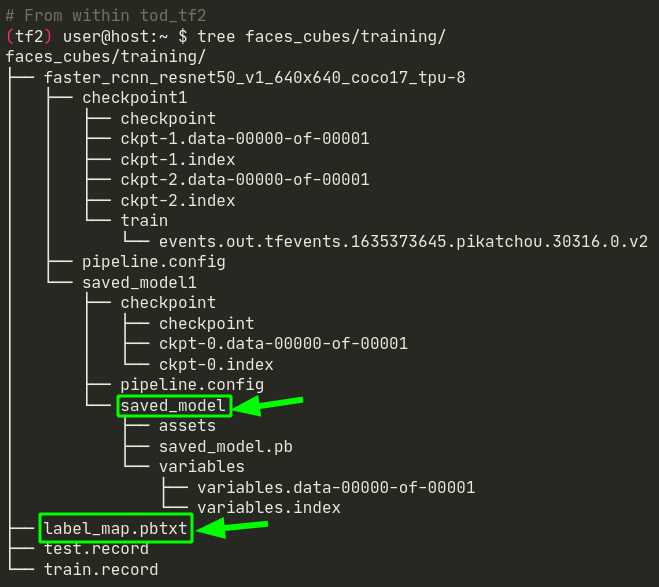
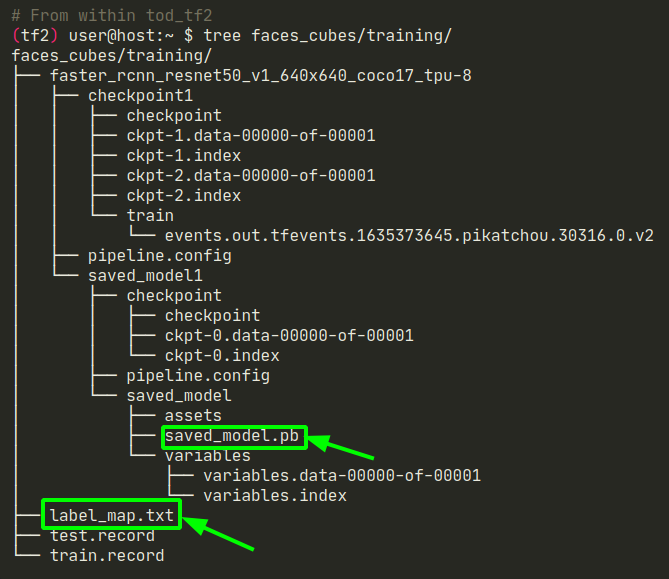
Update vision for januaray session

Changed region(s): [[0.0, 0.0, 1.0, 0.9948]]

diff --git a/content/french/vision/object_detection_tf2/evaluate_network/index.md b/content/french/vision/object_detection_tf2/evaluate_network/index.md
@@ -19,7 +19,7 @@ menu:
 Le but de cette activité est de Vérifier que le réseau entraîné est bien capable de détecter les faces des cubes en discriminant correctement les numéros écrits sur les faces.
 
 Le script Python `plot_object_detection_saved_model.py` permet d'exploiter le réseau de neuronnes ré-entraîné sur des images, les arguments sont :
-* `-l` : le chemin du fichier `label_map.pbtxt`
+* `-l` : le chemin du fichier `label_map.txt`
 * `-s` : le chemin du dossier `saved_model/` contenant les fichiers des poids du réseau ré-entraîné
 * `-i` : le chemin __du dossier des images__ ou le chemin __du fichier image__ à analyser
 * `-n` : le nombre max d'objets à détecter (opetionnel, valeur par défaut : 4)
@@ -31,7 +31,7 @@ Par exemple pour faire la détection des cubes des images de test avec le résea
 
 ```bash
 # From within tod_tf2
-(tf2) user@host: $ python plot_object_detection_saved_model.py -l faces_cubes/training/label_map.pbtxt -s $PTN_DIR/saved_model1/saved_model -i faces_cubes/images/test/
+(tf2) user@host: $ python plot_object_detection_saved_model.py -l faces_cubes/training/label_map.txt -s $PTN_DIR/saved_model1/saved_model -i faces_cubes/images/test/
 Loading model...Done! Took 13.23 seconds
 Running inference for faces_cubes/images/test/image016.png... [2 2 1 1]
 [0.9998258  0.99902177 0.99812204 0.9964721 ]
@@ -83,8 +83,7 @@ Quelques idées à bien garder en tête :
 * ⚠  l'EVP `(tf2)` doit être utilisé __UNIQUEMENT pour entraîner le réseau de neurones__.
 * ⚠  l'EVP `(tf2)` __ne doit pas être utilisé avec ROS pour exploiter__ le réseau de neurone ré-entrainé.
 * ROS utilise l'__installation standard de Python__ sur ta machine, hors de tout EVP : c'est un environnement que tu gères en tapant `sudo apt install python3-...`, ou `pip3 install ...` ou encore `sudo pip3 instal ...`
-* Pour instancier le réseau sauvegardé, tu vas utiliser la fonction `saved_model.load` du module _tensorflow_ (cf fichier `nn.py`) : il faudra que tu installes le module _tensorflow_ dans l'environnement Python standard de ta machine : `pip3 install tensorflow==2.9` devrait convenir ! 
+* Pour instancier le réseau sauvegardé, tu vas utiliser la fonction `saved_model.load` du module _tensorflow_ (cf fichier `nn.py`) : il faut que tu installes le module _tensorflow_ dans l'environnement Python standard de ta machine : `pip3 install tensorflow==2.11.0` devrait convenir ! 
 * le fichier `nn.py` dans le dossier `tod_tf2` donne une base de départ pour le programme d'intégration de vendredi... <br>
 Pour l'utiliser, il faudra que tu installes d'autres modules : par exemple  `pip3 install opencv-python==4.6.0.66`<br>
-À chaque fois que l'exécution de `nn.py` te donnera un message d'erreur "module xxx not found" il faudra que tu tapes `pip3 install xxxx` pour ajouter le module incriminé dans l'environnement Python standard de ta machine.
-
+À chaque fois que l'exécution de `nn.py` donne un message d'erreur "module xxx not found" il faut ajouter le module incriminé dans l'environnement Python standard de ta machine avec la commande `pip3 install xxxx`.

diff --git a/content/french/vision/object_detection_tf2/re-train_network/index.md b/content/french/vision/object_detection_tf2/re-train_network/index.md
@@ -207,9 +207,8 @@ faces_cubes/training/
 │           └── variables
 │               ├── variables.data-00000-of-00001
 │               └── variables.index
-├── label_map.pbtxt
+├── label_map.txt
 ├── test.record
 └── train.record
-
 ```
 
